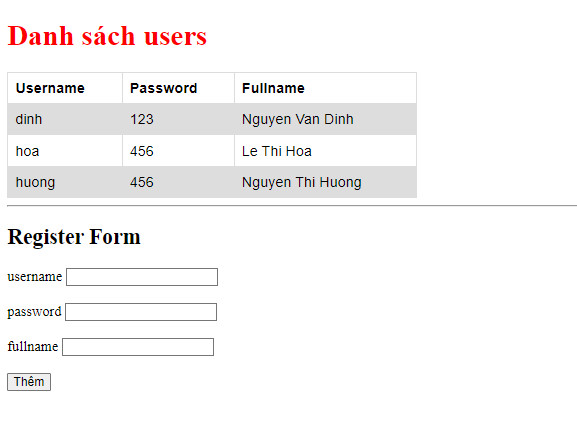
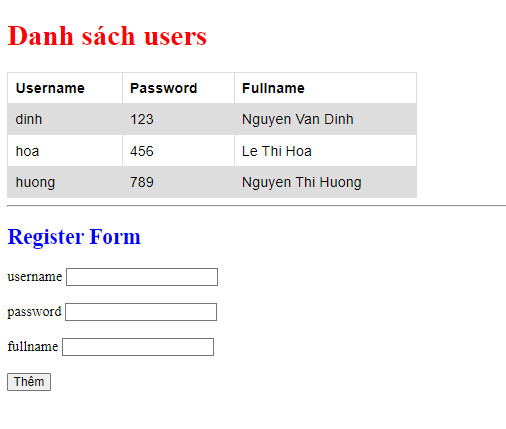
x

diff --git a/js/main.js b/js/main.js
@@ -13,7 +13,7 @@ var listUsers = [
     },
     {
         username: 'huong',
-        password: '456',
+        password: '789',
         fullname: 'Nguyen Thi Huong'
     }
 ]
